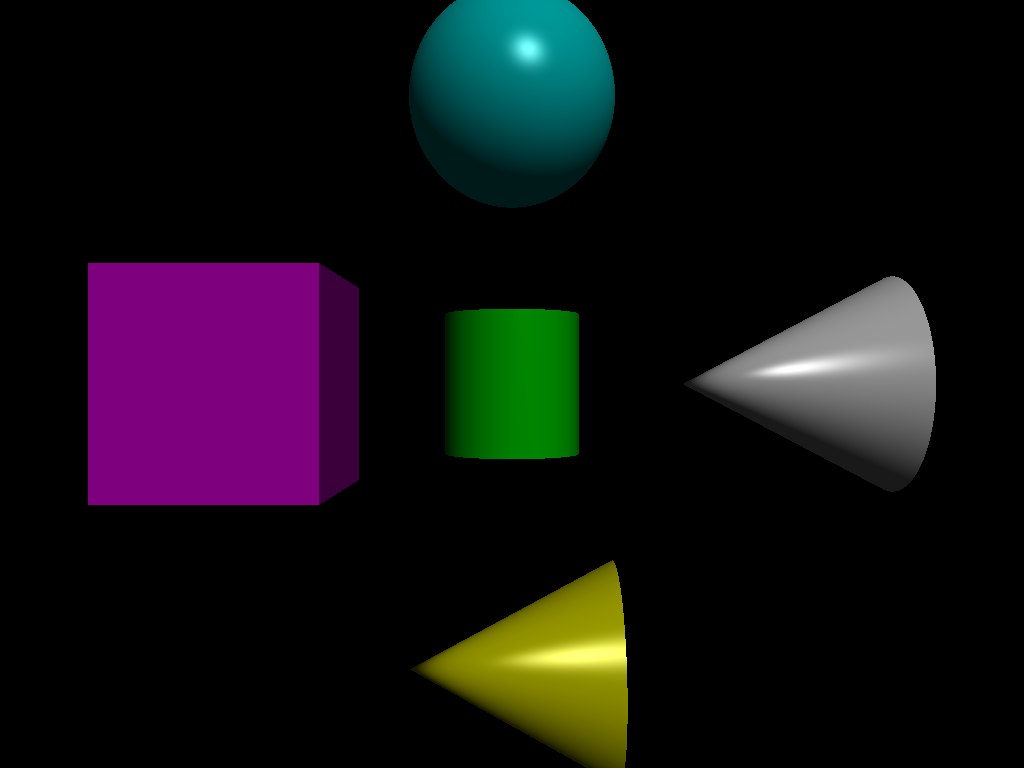
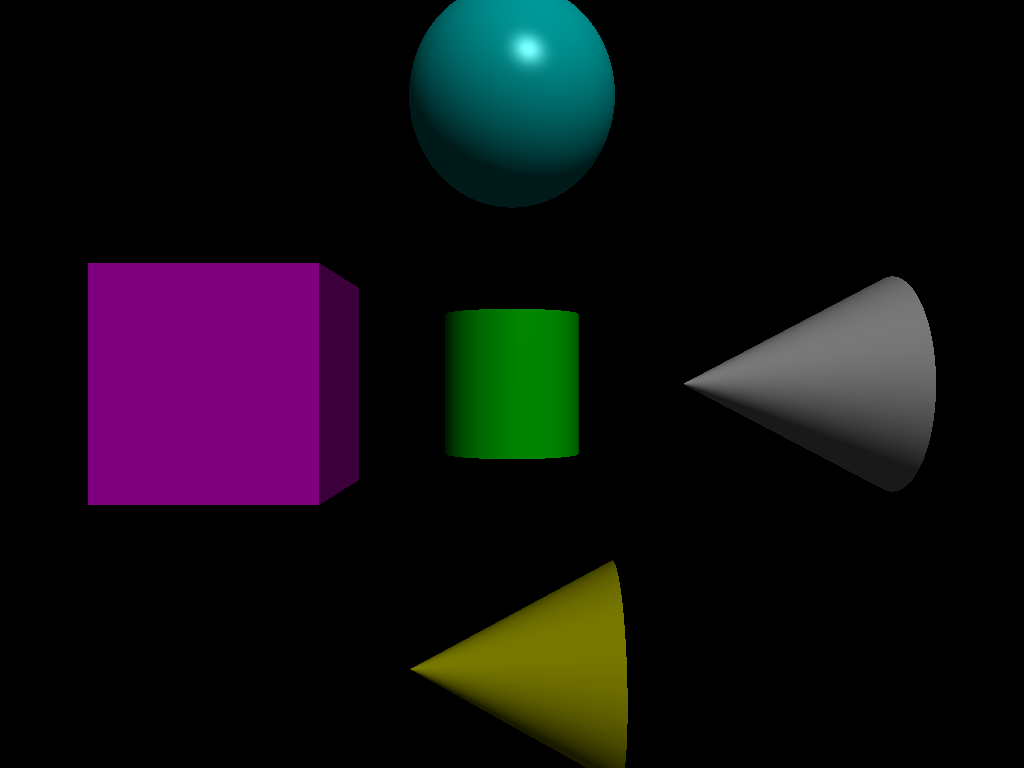
new

diff --git a/src/raytracer/intersect.cpp b/src/raytracer/intersect.cpp
@@ -339,7 +339,7 @@ glm::vec3 Intersect::normal_cylinder(glm::vec4& intersection, glm::mat4& ctm){
     }else if (std::abs(intersection.y + 0.5f) < epsilon) {
         result = glm::vec3(0, -1, 0);
     }else{
-        glm::vec3 n(intersection.x, 0, intersection.z);
+        result = glm::vec3(intersection.x, 0, intersection.z);
     }
     result = glm::normalize(result);
     glm::vec4 new_normal(result.x, result.y, result.z, 0);
